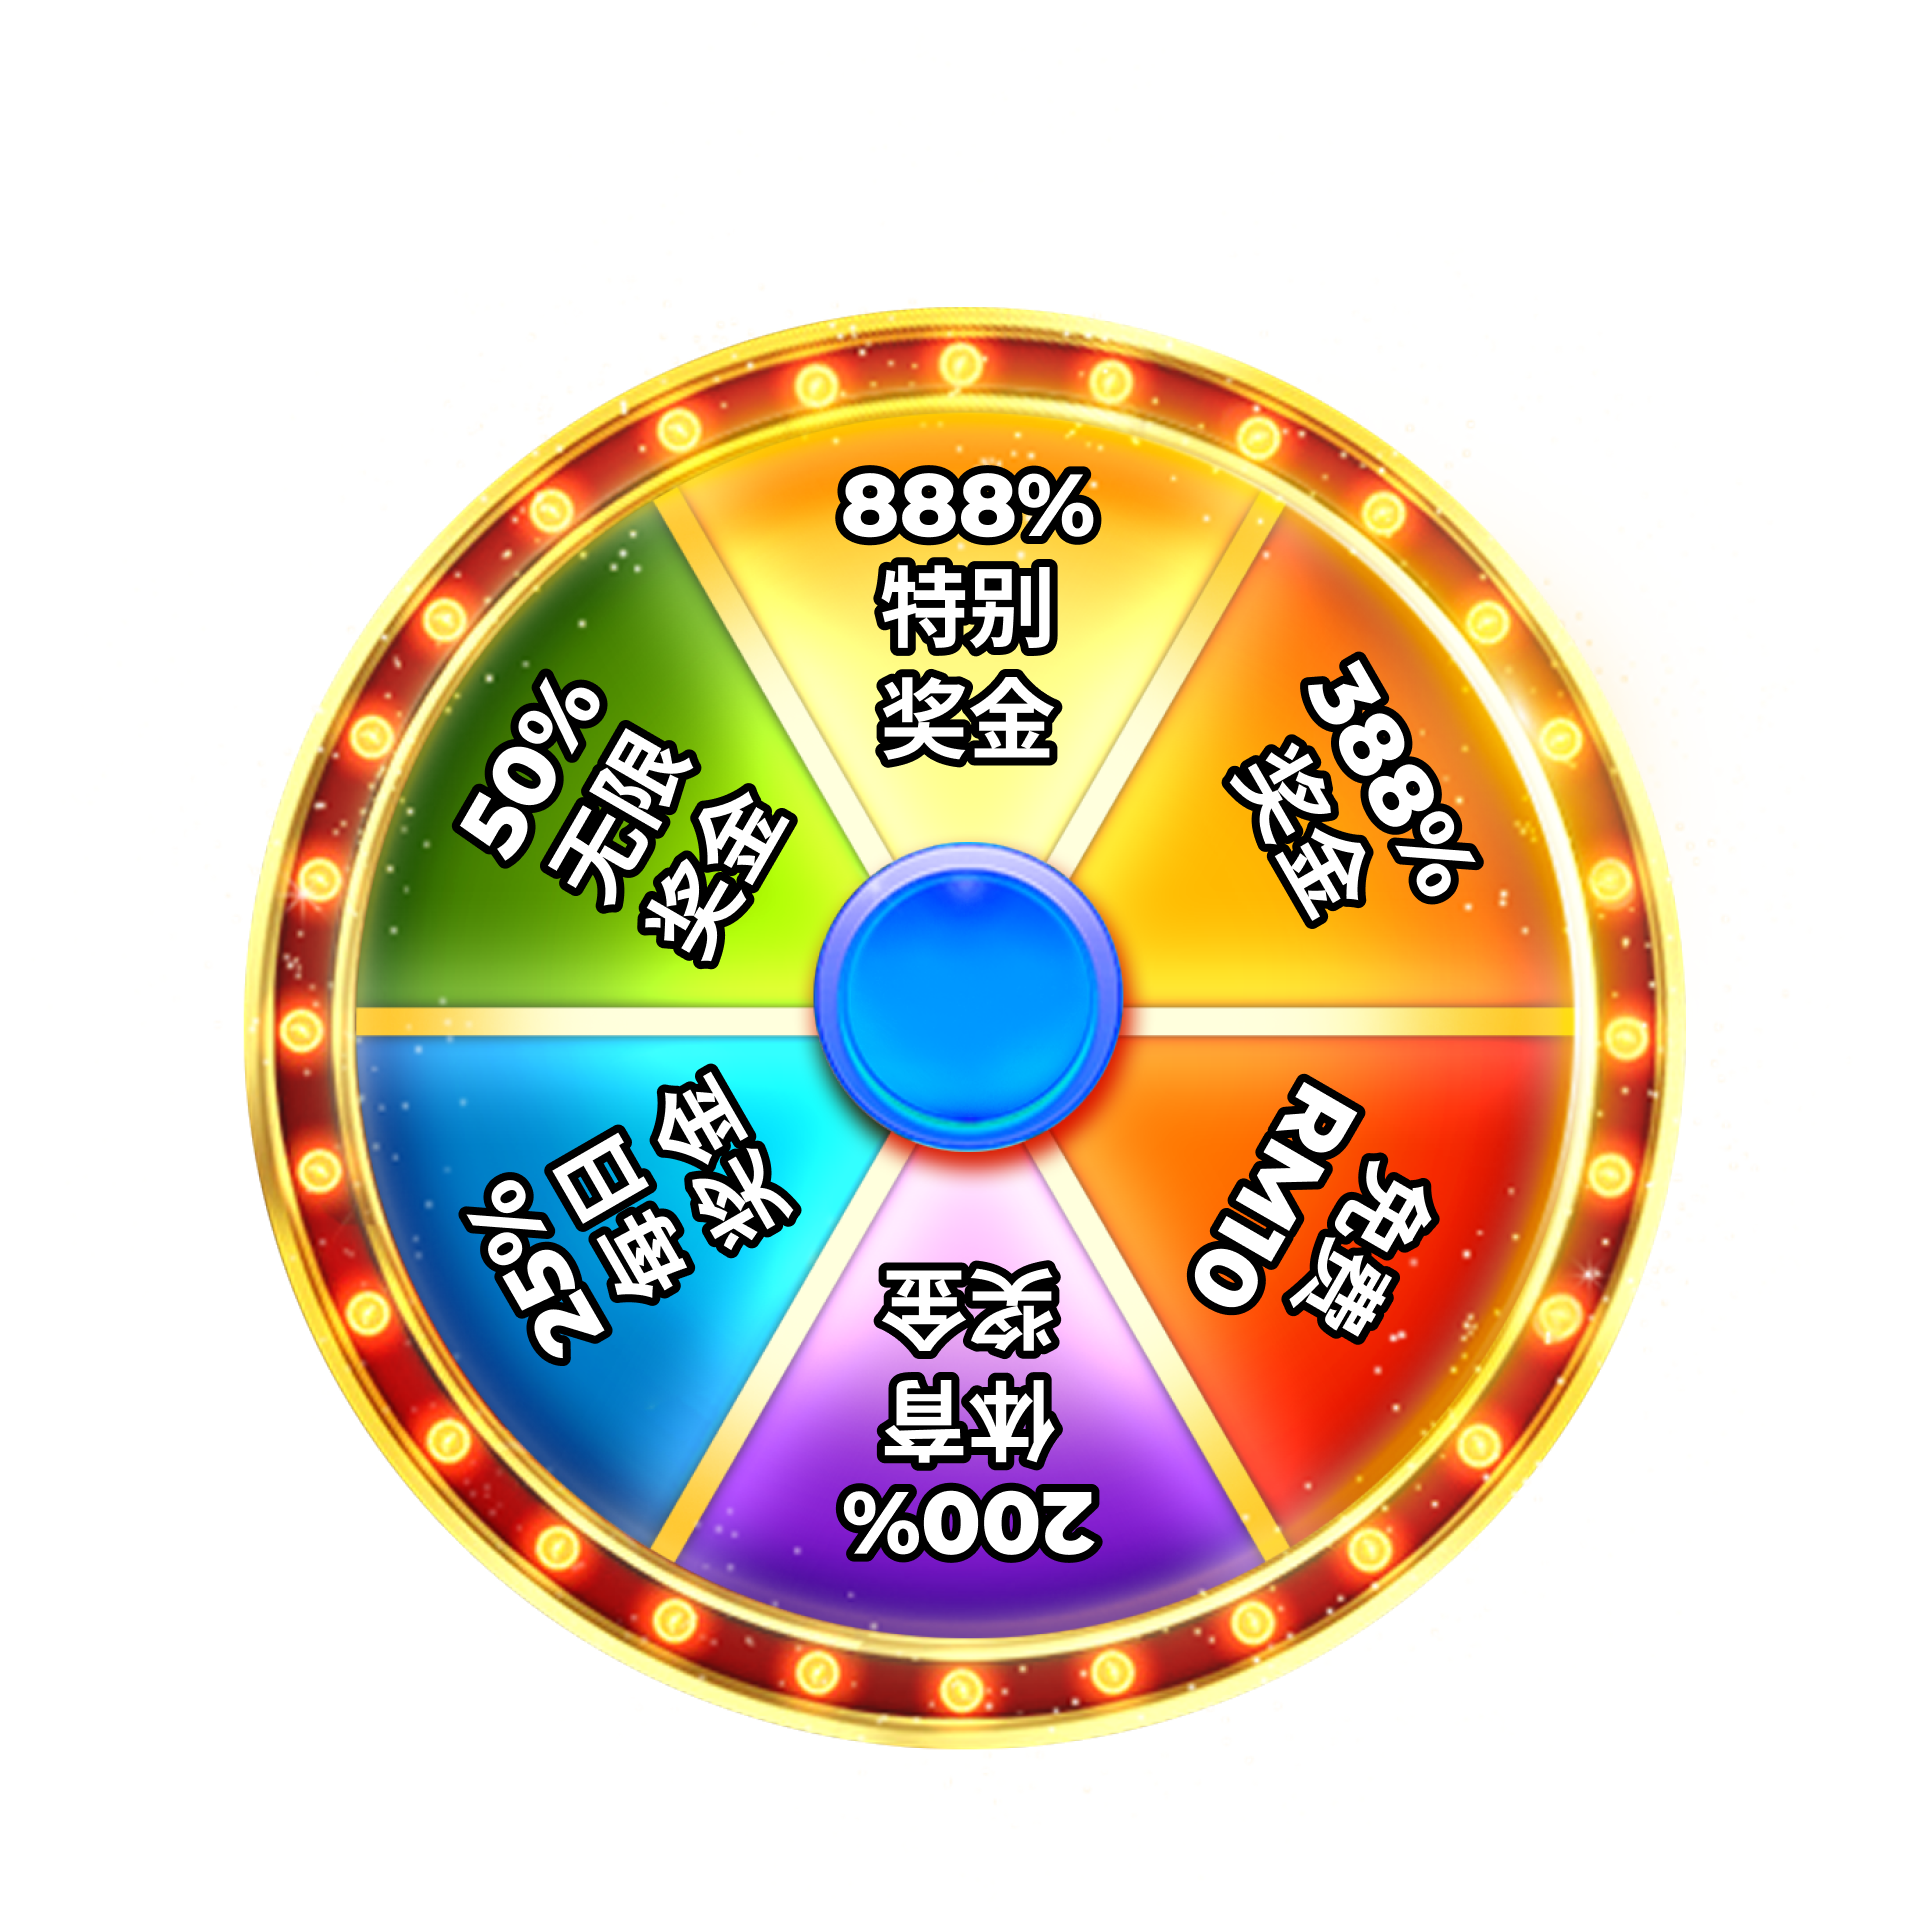
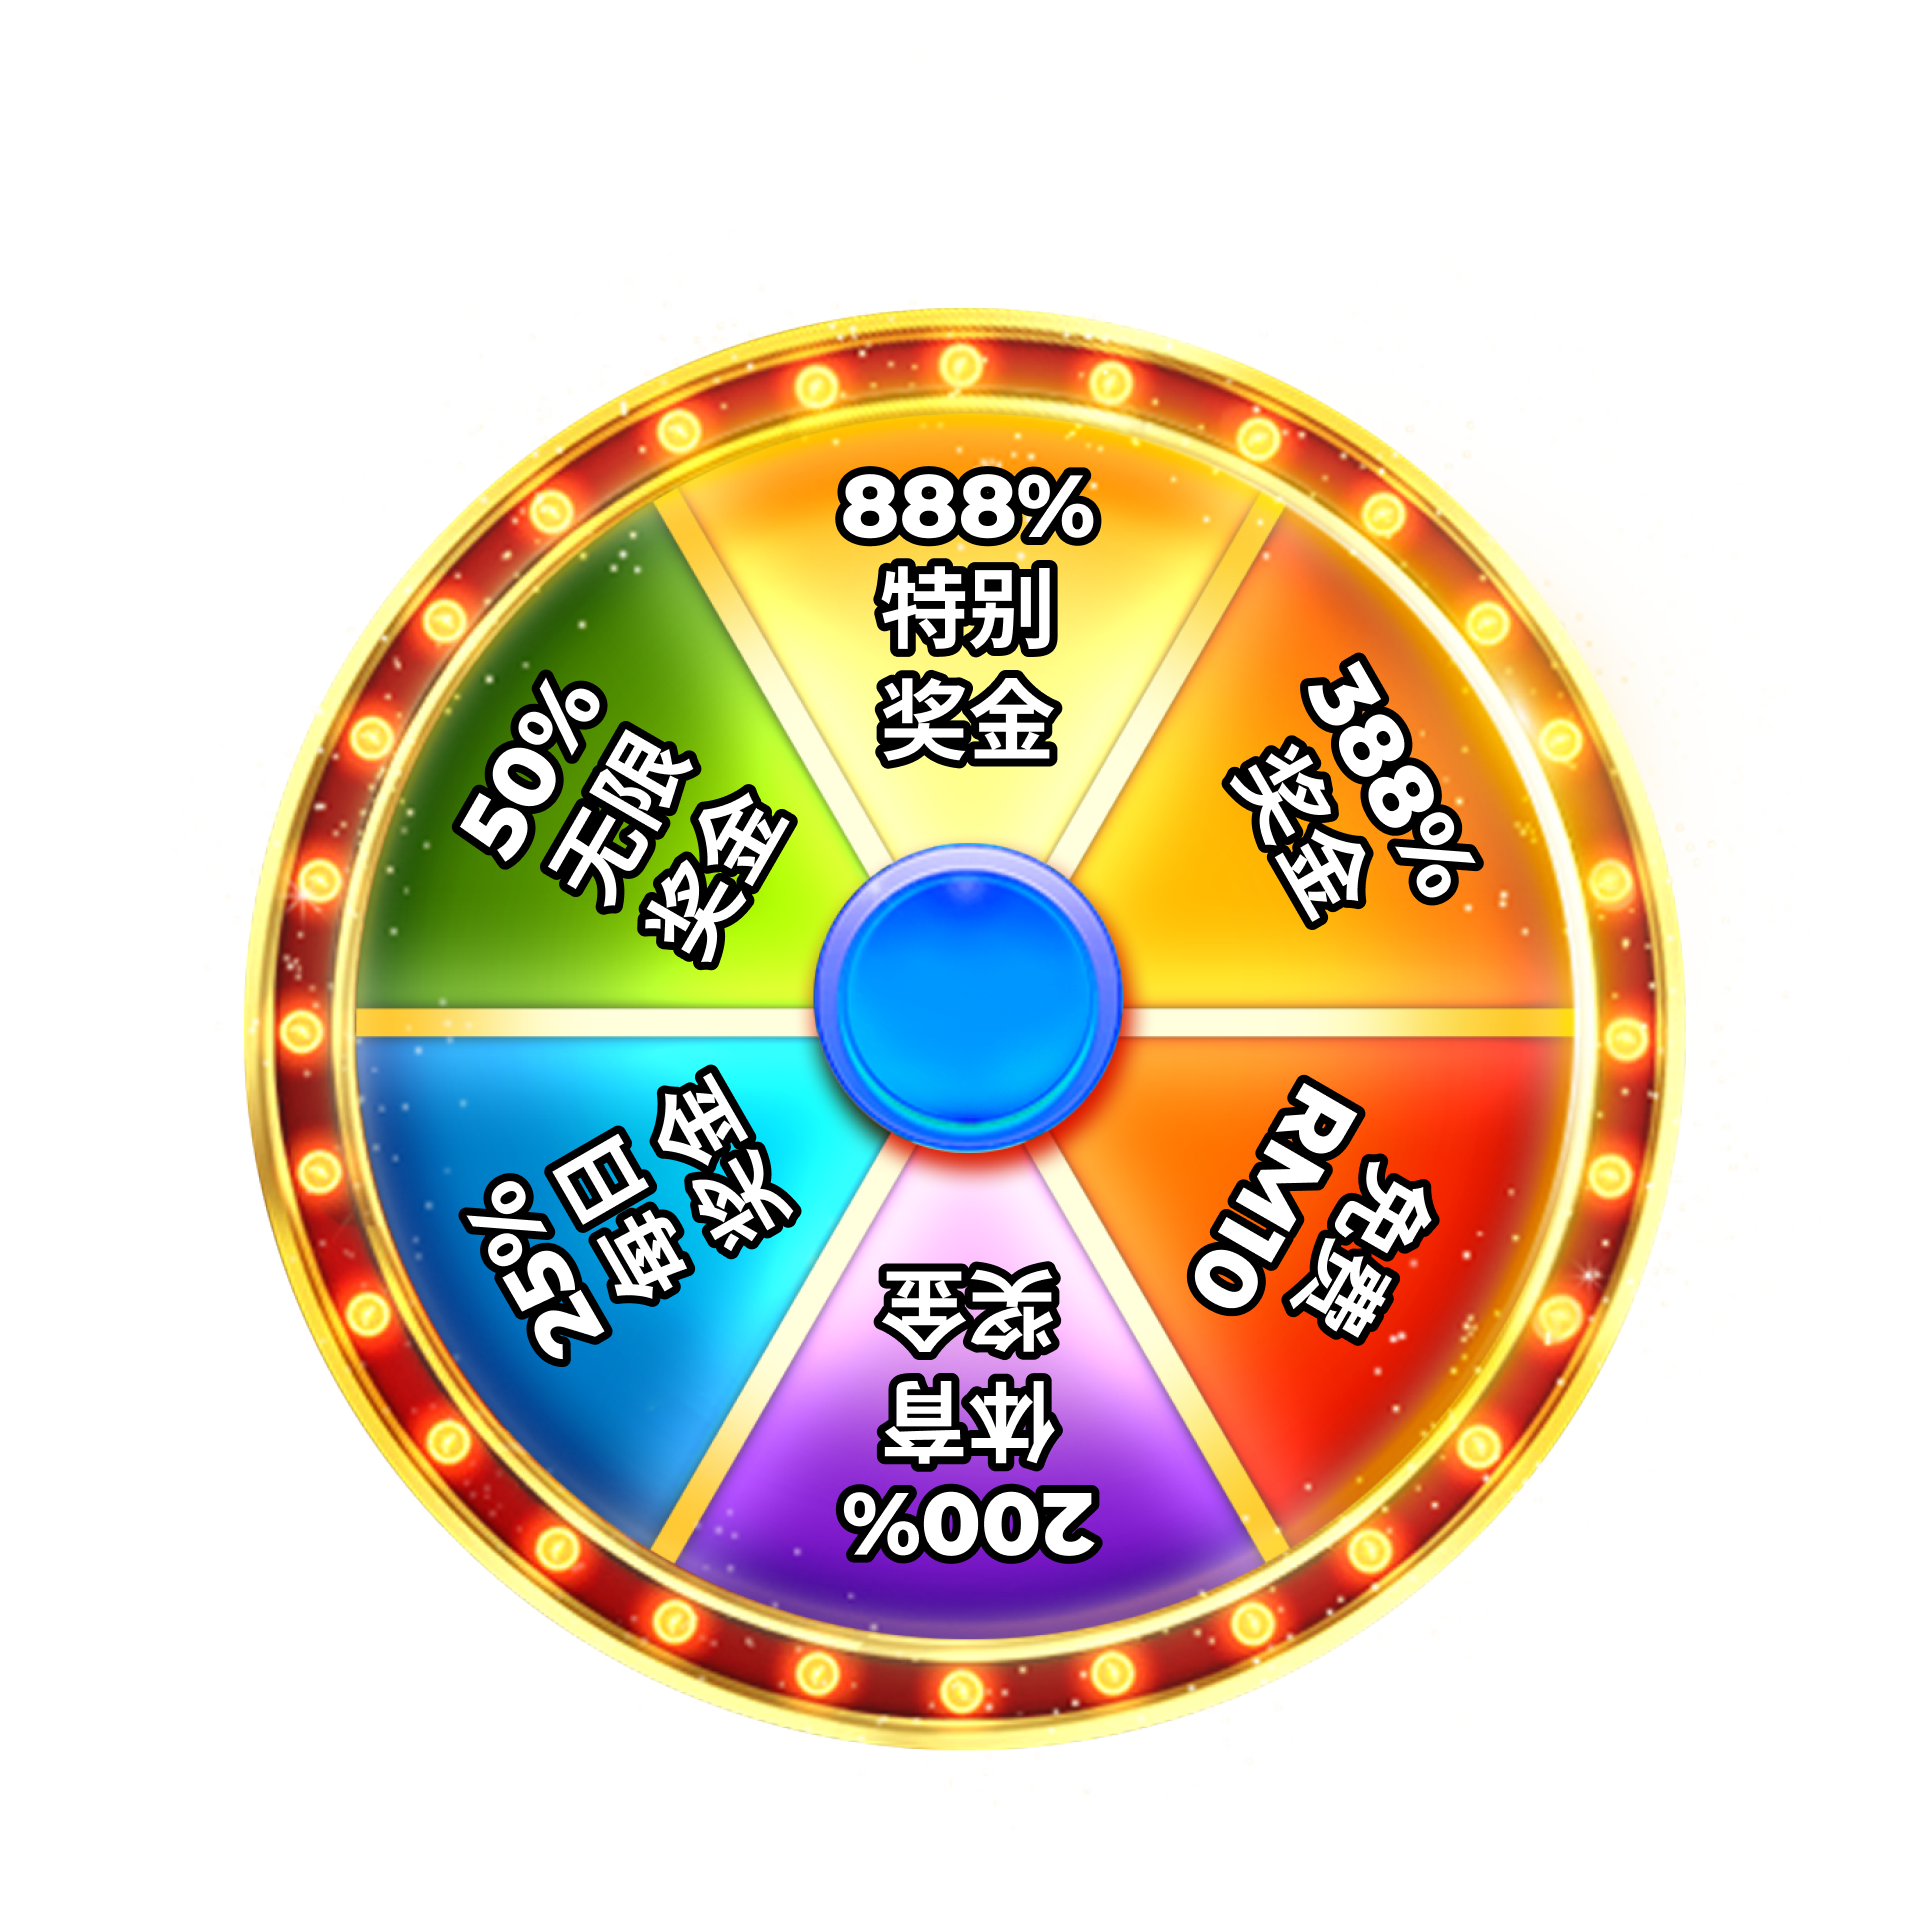
new

diff --git a/src/views/Home.vue b/src/views/Home.vue
@@ -27,7 +27,8 @@
 					:verify="canvasVerify" :prizeId="prizeId" :angleBase="-10" :prizes="prizesImage"
 					:rotationDuration="500" @rotateStart="onImageRotateStart" @rotateEnd="onRotateEnd">
 					<template #wheel>
-						<img src="../assets/Group 14.webp" style="width: 100%;transform: rotateZ(30deg)" />
+						<img src="../assets/Group 14.webp"
+							style="width: 100%; transform: rotateZ(30deg); transform-origin: center;" />
 					</template>
 					<template #button>
 						<img src="../assets/button 3(Chi) 1 (1).webp"
@@ -150,59 +151,6 @@ onBeforeUnmount(() => {
 		bgm.value.currentTime = 0;  // 可选：重置播放位置到开头
 	}
 });
-
-
-const prizesCanvas = [
-	{
-		id: 1,
-		name: '25%每日奖金',
-		value: '25%每日奖金',
-		bgColor: '#45ace9',
-		color: '#ffffff',
-		probability: 100
-	},
-	{
-		id: 2,
-		name: '免费RM10',
-		value: '免费RM10',
-		bgColor: '#dd3832',
-		color: '#ffffff',
-		probability: 0
-	},
-	{
-		id: 3,
-		name: '888%特别奖金',
-		value: '888%特别奖金',
-		bgColor: '#fef151',
-		color: '#ffffff',
-		probability: 0
-	},
-	{
-		id: 4,
-		name: '388%奖金',
-		value: '388%奖金',
-		bgColor: '#fef151',
-		color: '#ffffff',
-		probability: 0
-	},
-	{
-		id: 5,
-		name: '50%无限奖金',
-		value: '50%无限奖金',
-		bgColor: '#fef151',
-		color: '#ffffff',
-		probability: 0
-	},
-	{
-		id: 6,
-		name: '200%体育奖金',
-		value: '200%体育奖金',
-		bgColor: '#fef151',
-		color: '#ffffff',
-		probability: 0
-	}
-]
-
 const prizesImage = [
 	{
 		id: 1,
@@ -235,10 +183,6 @@ const prizesImage = [
 		weight: 0
 	}
 ]
-
-const prizeRes = computed(() => {
-	return prizesCanvas.find(item => item.id === prizeId.value) || prizesCanvas[0]
-})
 
 const isSpinning = ref(false);
 
@@ -288,13 +232,7 @@ onMounted(() => {
 	sessionStorage.removeItem('hasBGMPlayed');
 
 });
-onBeforeUnmount(() => {
-	// Stop BGM when navigating away from the page
-	if (bgm.value) {
-		bgm.value.pause();
-		bgm.value.currentTime = 0;  // 可选：重置播放位置到开头
-	}
-});
+
 
 
 </script>
@@ -334,7 +272,9 @@ onBeforeUnmount(() => {
 	background-size: cover;
 	margin-bottom: 150px;
 	text-align: center;
+
 }
+
 
 .money-img {
 	position: absolute;

diff --git a/index.html b/index.html
@@ -6,11 +6,27 @@
 	<link rel="icon" href="/KK8-logo-(white-with-blue-bground).webp">
 	<meta name="viewport" content="width=device-width, initial-scale=1.0">
 	<title>KK8 Spin Wheel</title>
+
+	<!-- Google Tag Manager -->
+	<script>(function (w, d, s, l, i) {
+			w[l] = w[l] || []; w[l].push({
+				'gtm.start':
+					new Date().getTime(), event: 'gtm.js'
+			}); var f = d.getElementsByTagName(s)[0],
+				j = d.createElement(s), dl = l != 'dataLayer' ? '&l=' + l : ''; j.async = true; j.src =
+					'https://www.googletagmanager.com/gtm.js?id=' + i + dl; f.parentNode.insertBefore(j, f);
+		})(window, document, 'script', 'dataLayer', 'GTM-TQ5SWNHP');</script>
+	<!-- End Google Tag Manager -->
 </head>
 
 <body>
+	<!-- Google Tag Manager (noscript) -->
+	<noscript><iframe src="https://www.googletagmanager.com/ns.html?id=GTM-TQ5SWNHP" height="0" width="0"
+			style="display:none;visibility:hidden"></iframe></noscript>
+	<!-- End Google Tag Manager (noscript) -->
 	<div id="app"></div>
 	<script type="module" src="/src/main.js"></script>
 </body>
+
 
 </html>
